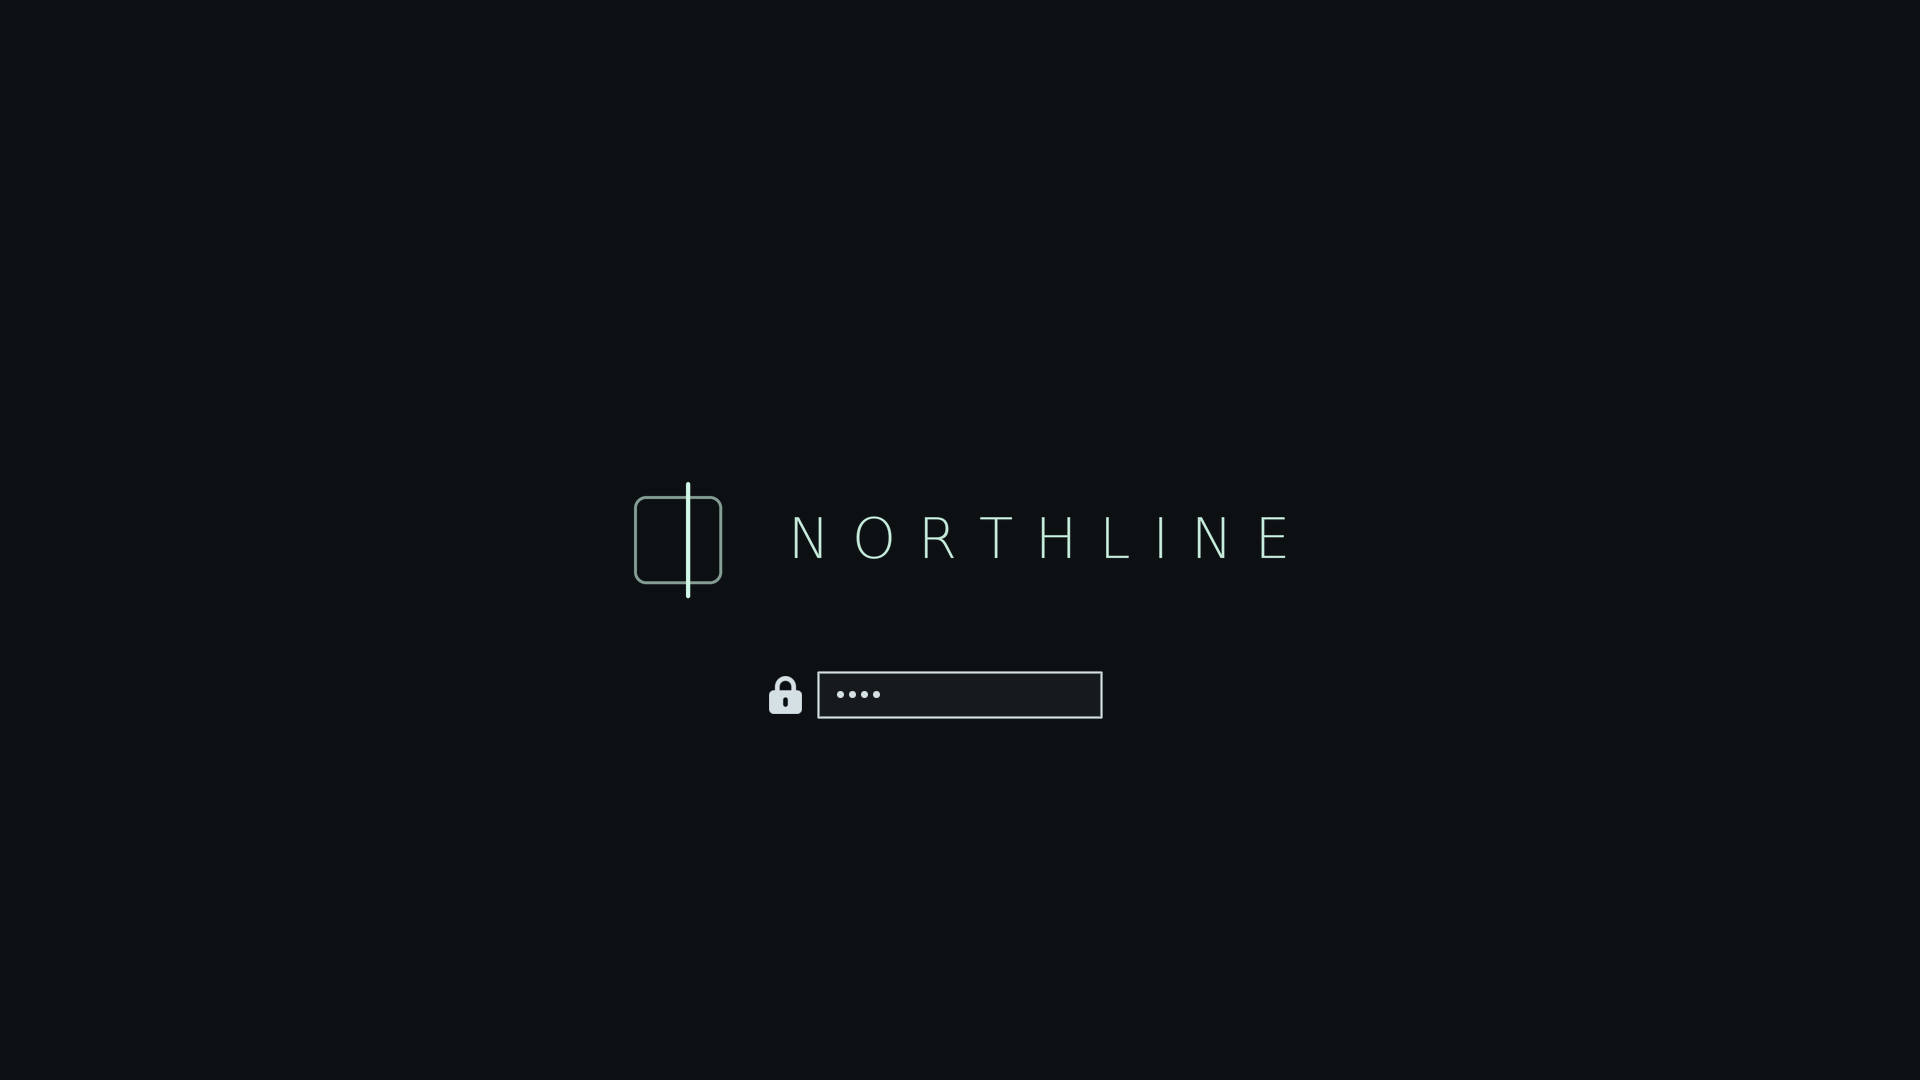
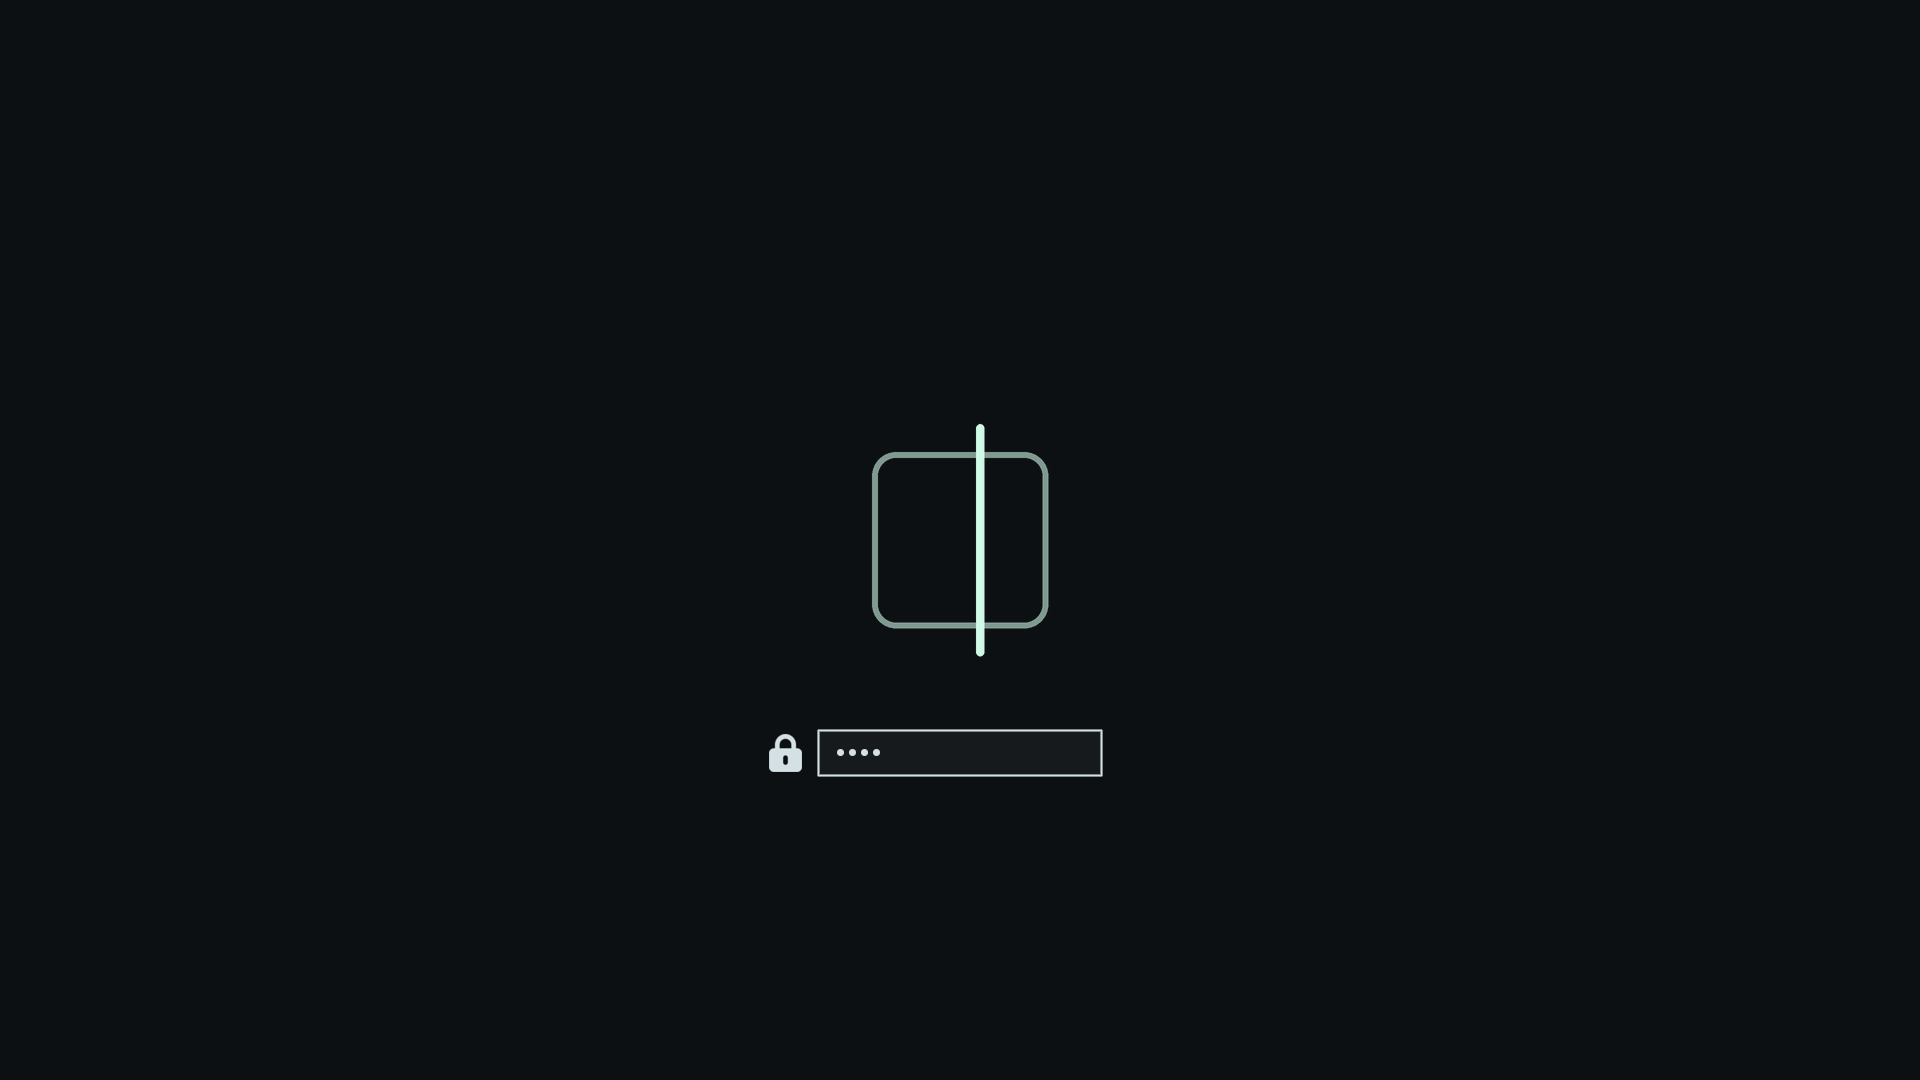
Show only the mark on the unlock screen
Drop the wordmarks from unlock.png and draw the marks at twice the size,
centred on their own. Previews rebuilt to match.

diff --git a/tools/gen_unlock_strata_northline.py b/tools/gen_unlock_strata_northline.py
@@ -1,8 +1,8 @@
 import sys
 from unlock_centre import centre
-from PIL import Image, ImageDraw, ImageFont
+from PIL import Image, ImageDraw
 which, out = sys.argv[1], sys.argv[2]
-SS = 4; W, H = 900, 180
+SS = 4; W, H = 900, 180; K = 2  # output scale
 grey = Image.new("L", (W*SS, H*SS), 0); lit = Image.new("L", (W*SS, H*SS), 0)
 dg, dl = ImageDraw.Draw(grey), ImageDraw.Draw(lit)
 cx, cy = 90*SS, 90*SS
@@ -10,17 +10,13 @@ if which == "strata":
     for i, half in enumerate([36, 54, 72]):
         y = cy - 18*SS + i*18*SS
         (dl if i == 2 else dg).rounded_rectangle([cx-half*SS, y-2*SS, cx+half*SS, y+2*SS], radius=2*SS, fill=255 if i == 2 else 150)
-    text, col, track = "STRATA", (246, 226, 196), 40
+    col = (246, 226, 196)
 else:
     h = 44*SS
     dg.rounded_rectangle([cx-h, cy-h, cx+h, cy+h], radius=12*SS, outline=150, width=3*SS)
     lx = cx + 10*SS
     dl.rounded_rectangle([lx-2*SS, cy-h-14*SS, lx+2*SS, cy+h+14*SS], radius=2*SS, fill=255)
-    text, col, track = "NORTHLINE", (210, 250, 232), 22
-font = ImageFont.truetype("/usr/share/fonts/TTF/DejaVuSans-ExtraLight.ttf", 56*SS)
-x = 200*SS
-for ch in text:
-    dg.text((x, 56*SS), ch, font=font, fill=230); x += font.getlength(ch) + track*SS
+    col = (210, 250, 232)
 from PIL import ImageChops
-a = ImageChops.lighter(grey, lit).resize((W, H), Image.LANCZOS)
-img = Image.new("RGBA", (W, H), col + (0,)); img.putalpha(a); centre(img).save(out)
+a = ImageChops.lighter(grey, lit).resize((W*K, H*K), Image.LANCZOS)
+img = Image.new("RGBA", (W*K, H*K), col + (0,)); img.putalpha(a); centre(img).save(out)

diff --git a/tools/gen_unlock_graphite.py b/tools/gen_unlock_graphite.py
@@ -1,9 +1,9 @@
-"""Graphite unlock.png: open 'G' ring with a blue light bar, and the wordmark."""
+"""Graphite unlock.png: open 'G' ring with a blue light bar."""
 import sys
 from unlock_centre import centre
-from PIL import Image, ImageDraw, ImageFont
+from PIL import Image, ImageDraw
 
-SS = 4; W, H = 900, 180
+SS = 4; W, H = 900, 180; K = 2  # output scale
 grey = Image.new("L", (W*SS, H*SS), 0); dg = ImageDraw.Draw(grey)
 blue = Image.new("L", (W*SS, H*SS), 0); db = ImageDraw.Draw(blue)
 
@@ -14,13 +14,8 @@ db.rounded_rectangle([cx, cy - stroke//2, cx + R, cy + stroke//2], radius=stroke
 r = 7*SS
 db.ellipse([cx-r, cy-r, cx+r, cy+r], fill=255)
 
-# wordmark, tracked like the other themes
-font = ImageFont.truetype("/usr/share/fonts/TTF/DejaVuSans-ExtraLight.ttf", 56*SS)
-x = 200*SS
-for ch in "GRAPHITE":
-    dg.text((x, 56*SS), ch, font=font, fill=230); x += font.getlength(ch) + 40*SS
 
-grey = grey.resize((W, H), Image.LANCZOS); blue = blue.resize((W, H), Image.LANCZOS)
-pale = Image.new("RGBA", (W, H), (228, 232, 238, 0)); pale.putalpha(grey)
-light = Image.new("RGBA", (W, H), (143, 191, 255, 0)); light.putalpha(blue)
+grey = grey.resize((W*K, H*K), Image.LANCZOS); blue = blue.resize((W*K, H*K), Image.LANCZOS)
+pale = Image.new("RGBA", (W*K, H*K), (228, 232, 238, 0)); pale.putalpha(grey)
+light = Image.new("RGBA", (W*K, H*K), (143, 191, 255, 0)); light.putalpha(blue)
 centre(Image.alpha_composite(pale, light)).save(sys.argv[1])

diff --git a/tools/gen_unlock_umbra.py b/tools/gen_unlock_umbra.py
@@ -1,7 +1,7 @@
 import sys
 from unlock_centre import centre
-from PIL import Image, ImageDraw, ImageFont, ImageChops
-SS = 4; W, H = 900, 180
+from PIL import Image, ImageDraw, ImageChops
+SS = 4; W, H = 900, 180; K = 2  # output scale
 a = Image.new("L", (W*SS, H*SS), 0); d = ImageDraw.Draw(a)
 cx, cy, R = 90*SS, 90*SS, 56*SS
 d.ellipse([cx-R, cy-R, cx+R, cy+R], outline=90, width=3*SS)          # faint ring
@@ -9,11 +9,6 @@ cres = Image.new("L", a.size, 0); dc = ImageDraw.Draw(cres)
 dc.ellipse([cx-R, cy-R, cx+R, cy+R], fill=255)
 dc.ellipse([cx-R-7*SS, cy-R+5*SS, cx+R-7*SS, cy+R+5*SS], fill=0)      # crescent on the right
 a = ImageChops.lighter(a, cres)
-font = ImageFont.truetype("/usr/share/fonts/TTF/DejaVuSans-ExtraLight.ttf", 64*SS)
-x = 200*SS
-for ch in "UMBRA":
-    d = ImageDraw.Draw(a); d.text((x, 52*SS), ch, font=font, fill=230)
-    x += font.getlength(ch) + 40*SS
-a = a.resize((W, H), Image.LANCZOS)
-img = Image.new("RGBA", (W, H), (214, 228, 255, 0)); img.putalpha(a)
+a = a.resize((W*K, H*K), Image.LANCZOS)
+img = Image.new("RGBA", (W*K, H*K), (214, 228, 255, 0)); img.putalpha(a)
 centre(img).save(sys.argv[1])

diff --git a/tools/gen_unlock_meridian.py b/tools/gen_unlock_meridian.py
@@ -1,7 +1,7 @@
 import sys
 from unlock_centre import centre
-from PIL import Image, ImageDraw, ImageFont
-SS = 4; W, H = 900, 180
+from PIL import Image, ImageDraw
+SS = 4; W, H = 900, 180; K = 2  # output scale
 a = Image.new("L", (W*SS, H*SS), 0); d = ImageDraw.Draw(a)
 import math
 cx, cy, R = 90*SS, 100*SS, 58*SS
@@ -9,8 +9,4 @@ pts = [(cx + R*math.cos(math.radians(t)), cy + R*math.sin(math.radians(t))) for 
 d.line(pts + [pts[0]], fill=150, width=4*SS, joint="curve")
 ax, ay = pts[0]; r = 9*SS
 d.ellipse([ax-r, ay-r, ax+r, ay+r], fill=255)
-font = ImageFont.truetype("/usr/share/fonts/TTF/DejaVuSans-ExtraLight.ttf", 56*SS)
-x = 200*SS
-for ch in "MERIDIAN":
-    d.text((x, 56*SS), ch, font=font, fill=230); x += font.getlength(ch) + 26*SS
-img = Image.new("RGBA", (W, H), (214, 236, 255, 0)); img.putalpha(a.resize((W, H), Image.LANCZOS)); centre(img).save(sys.argv[1])
+img = Image.new("RGBA", (W*K, H*K), (214, 236, 255, 0)); img.putalpha(a.resize((W*K, H*K), Image.LANCZOS)); centre(img).save(sys.argv[1])

diff --git a/tools/gen_unlock_carbon.py b/tools/gen_unlock_carbon.py
@@ -1,15 +1,11 @@
 import math, sys
 from unlock_centre import centre
-from PIL import Image, ImageDraw, ImageFont
-SS = 4; W, H = 900, 180
+from PIL import Image, ImageDraw
+SS = 4; W, H = 900, 180; K = 2  # output scale
 a = Image.new("L", (W*SS, H*SS), 0); d = ImageDraw.Draw(a)
 cx, cy, s = 90*SS, 96*SS, 58*SS
 pts = [(cx + s*math.cos(math.radians(60*k - 30)), cy + s*math.sin(math.radians(60*k - 30))) for k in range(7)]
 d.line(pts, fill=150, width=4*SS, joint="curve")
 vx, vy = pts[5]; r = 9*SS
 d.ellipse([vx-r, vy-r, vx+r, vy+r], fill=255)
-font = ImageFont.truetype("/usr/share/fonts/TTF/DejaVuSans-ExtraLight.ttf", 56*SS)
-x = 200*SS
-for ch in "CARBON":
-    d.text((x, 56*SS), ch, font=font, fill=230); x += font.getlength(ch) + 40*SS
-img = Image.new("RGBA", (W, H), (255, 214, 196, 0)); img.putalpha(a.resize((W, H), Image.LANCZOS)); centre(img).save(sys.argv[1])
+img = Image.new("RGBA", (W*K, H*K), (255, 214, 196, 0)); img.putalpha(a.resize((W*K, H*K), Image.LANCZOS)); centre(img).save(sys.argv[1])

diff --git a/README.md b/README.md
@@ -40,7 +40,7 @@ Cycle backgrounds with `omarchy theme bg next` or the background switcher.
   blurred wallpaper, with a thin border in the accent that turns soft red
   after a wrong password. Omarchy merges it into the `[lock]` section of the
   generated `shell.toml`.
-- `unlock.png` — mark and name on a transparent background, for the boot
+- `unlock.png` — the mark alone on a transparent background, for the boot
   disk-unlock screen (Plymouth).
 - `preview-unlock.png` — the unlock screen preview, made with
   `omarchy plymouth preview`. It puts the theme in the unlock switcher
